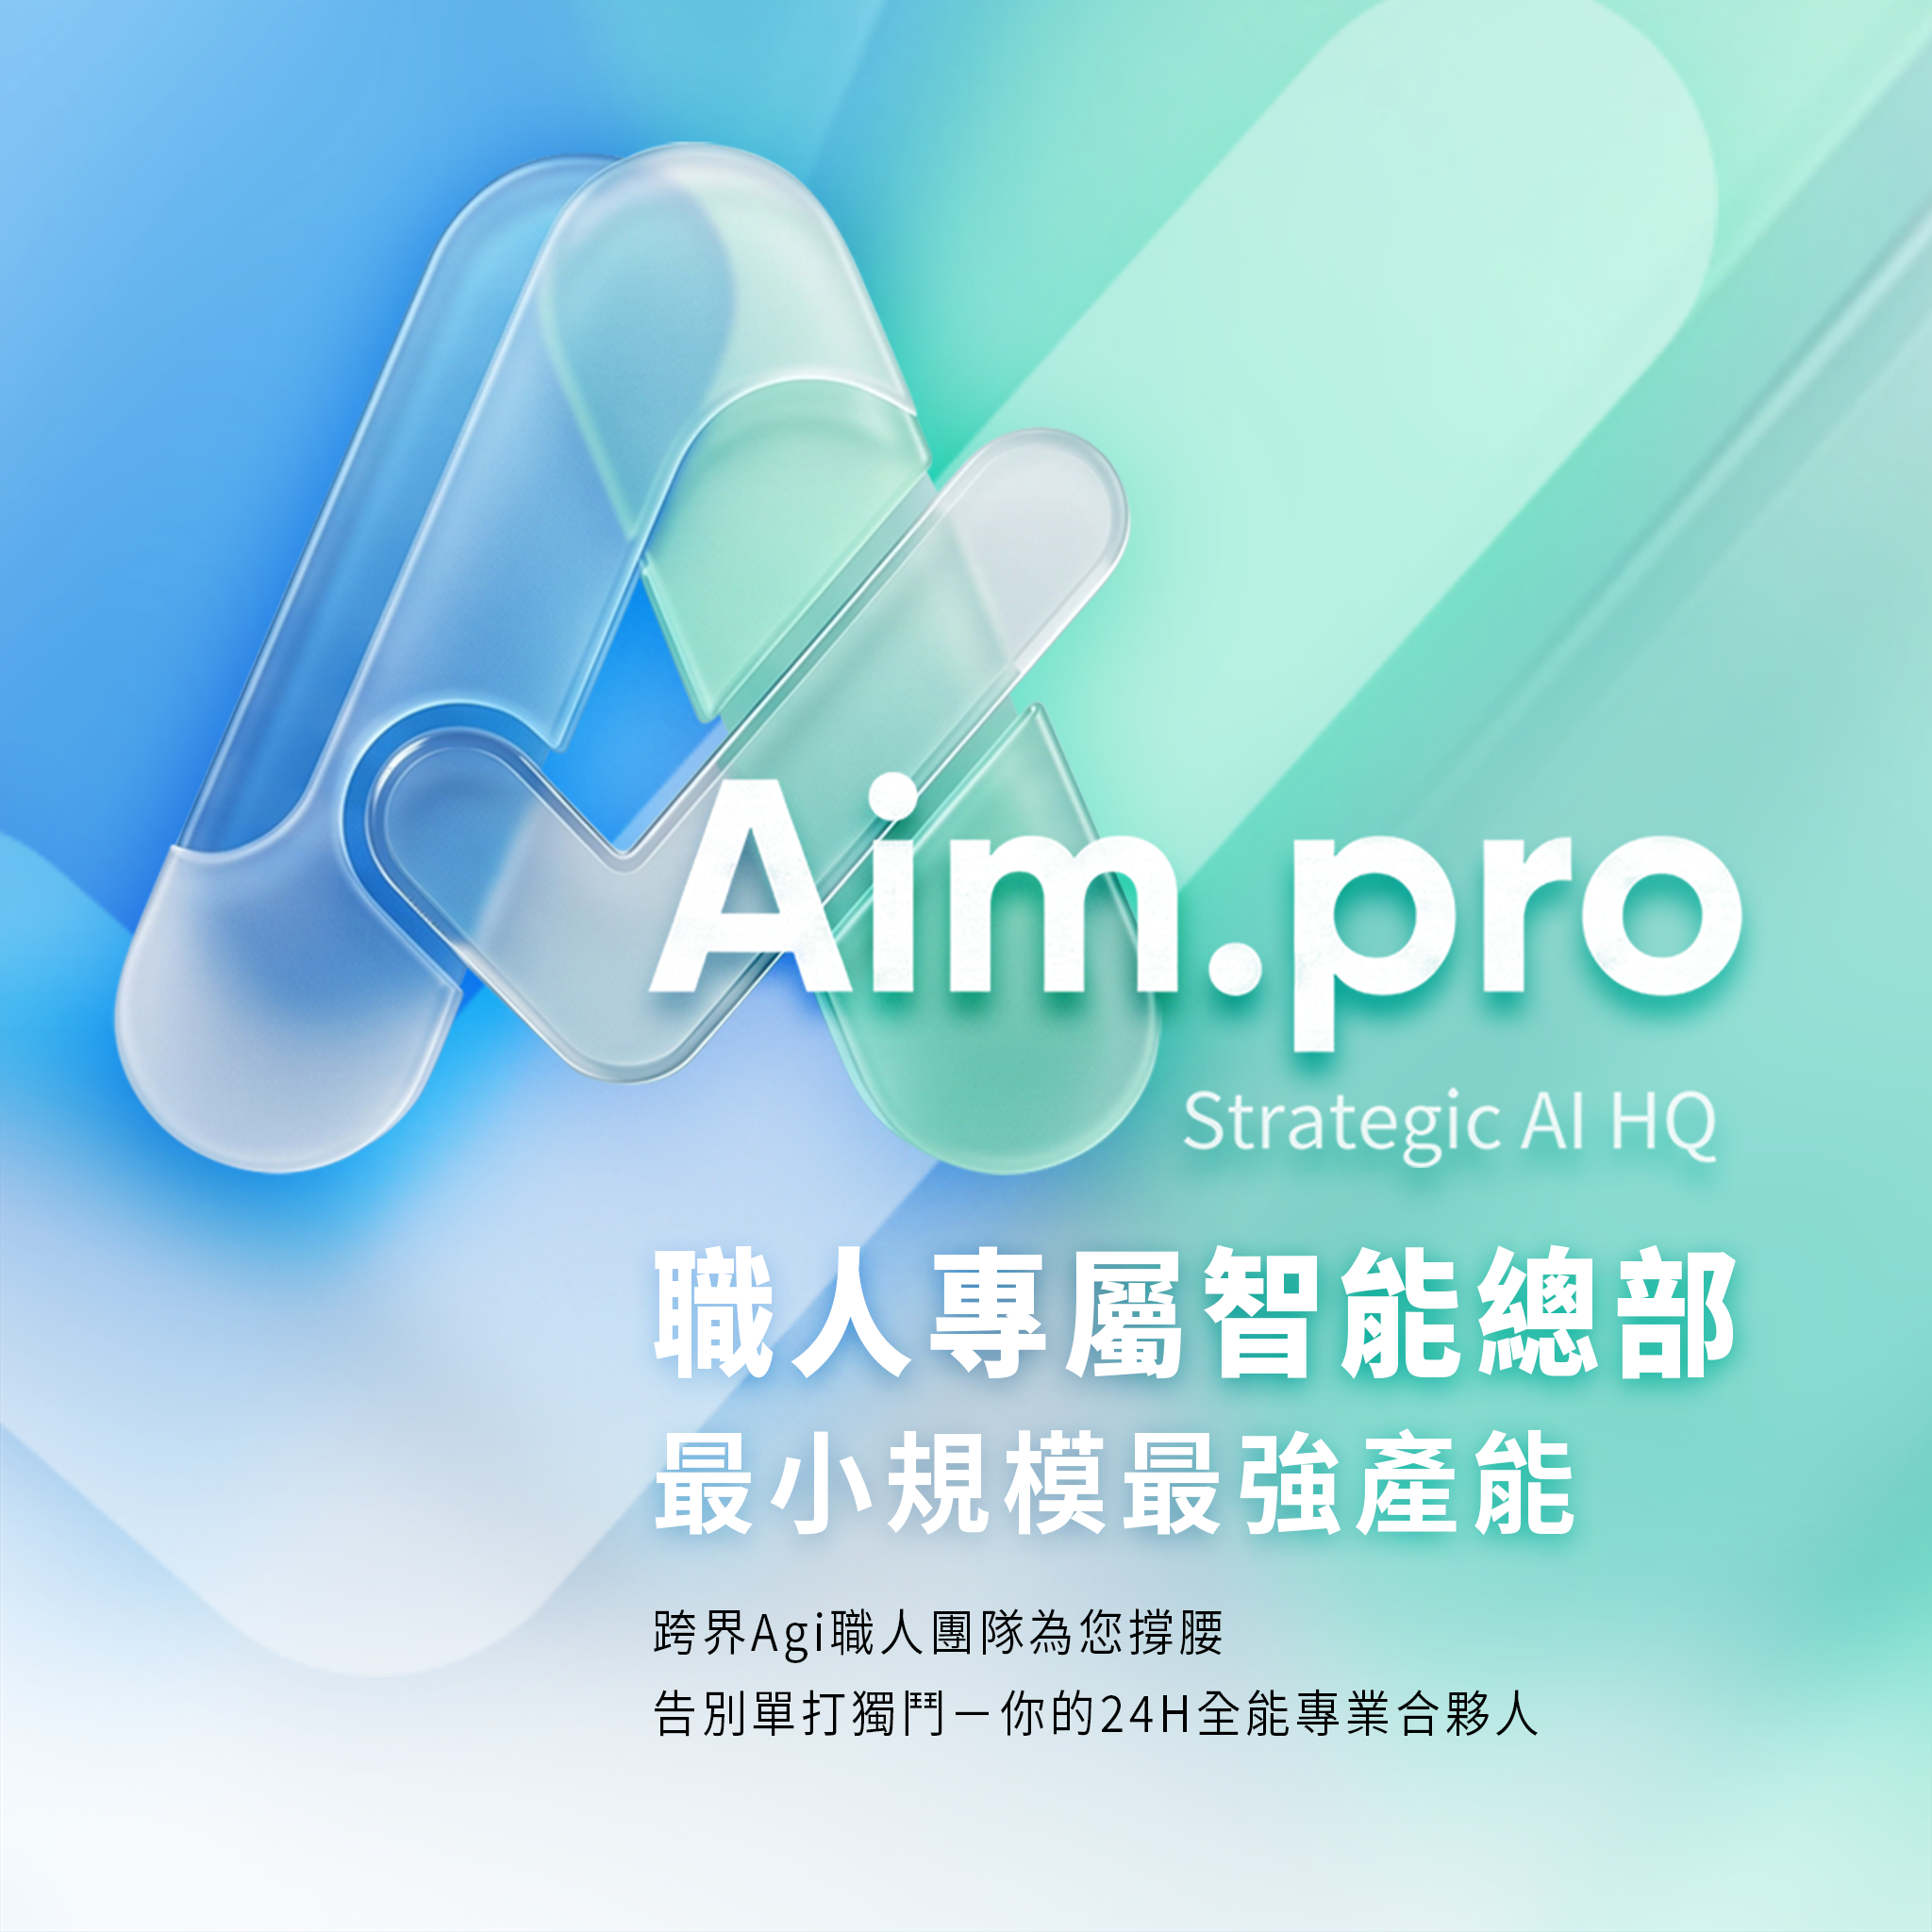
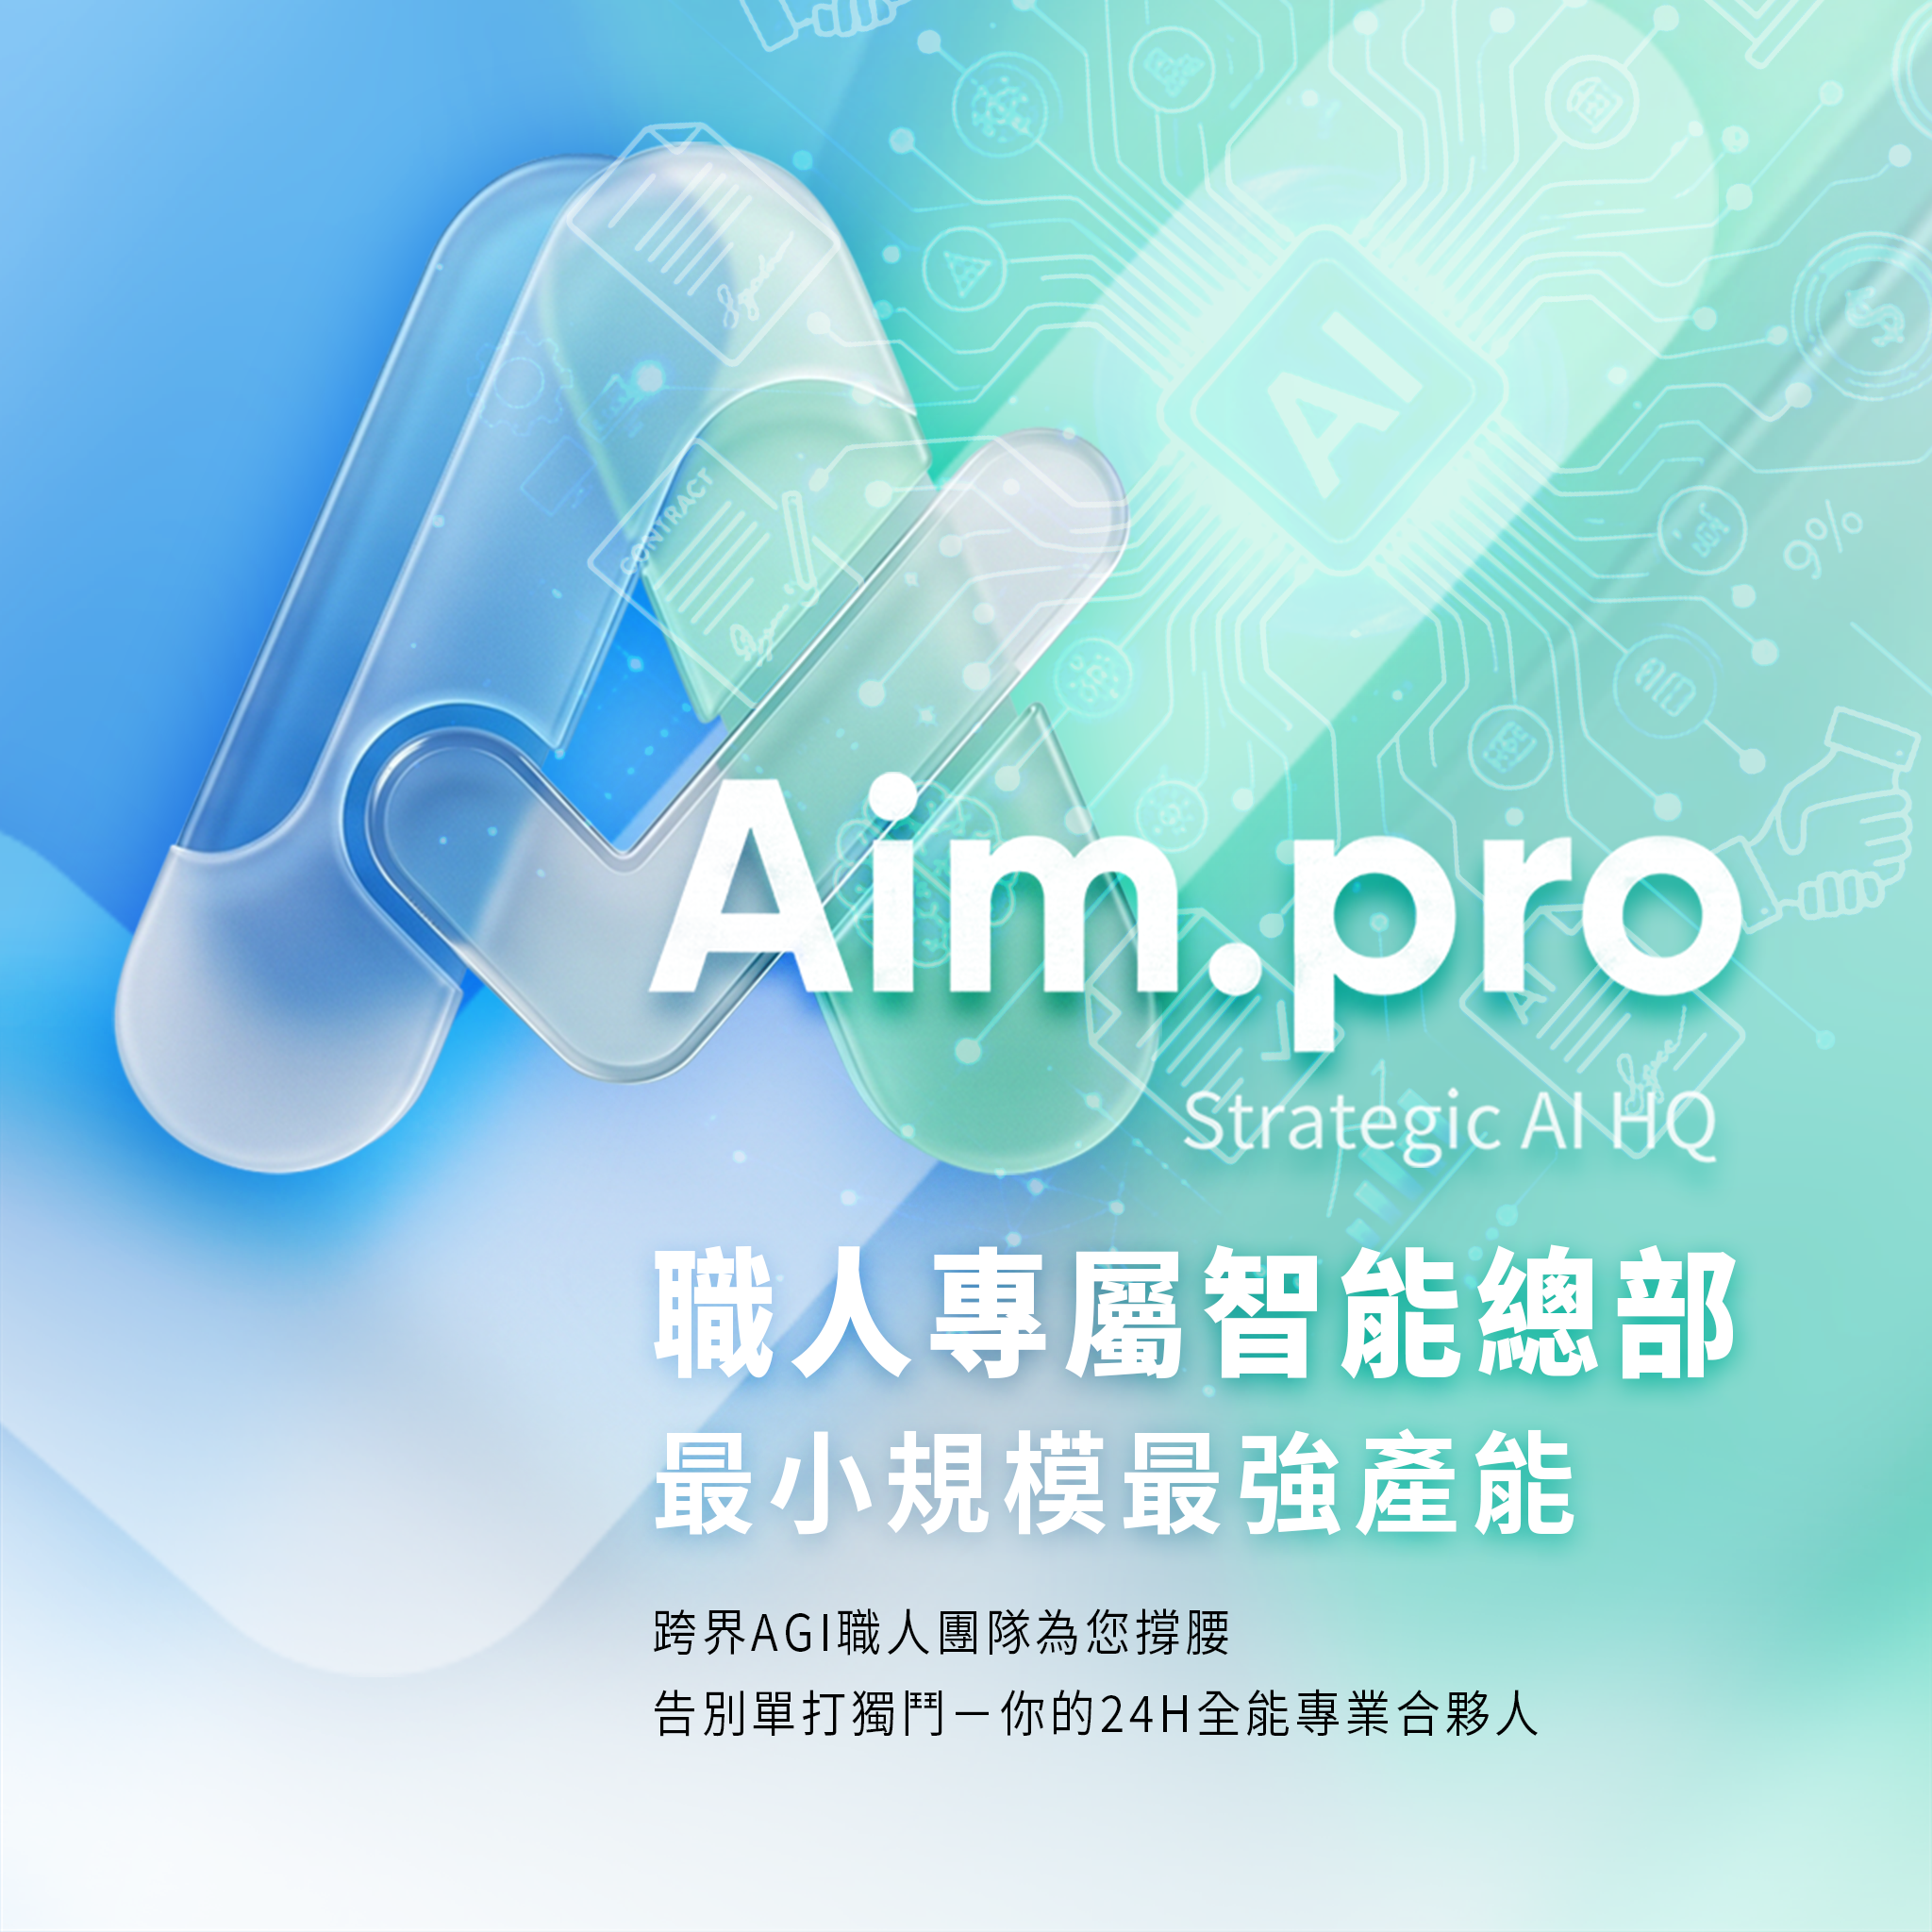
feat(design): add 5 Guizang editorial visual styles for quotations, contracts, and presentations

diff --git a/src/components/QuotationBuilder.tsx b/src/components/QuotationBuilder.tsx
@@ -29,7 +29,7 @@ export default function QuotationBuilder({ projectData, reportContent }: Quotati
     ]);
     const [taxMode, setTaxMode] = useState<TaxMode>((activeProject?.quotationSettings?.taxMode as TaxMode) || 'exclusive'); // exclusive = +5%
     const [riskLevel, setRiskLevel] = useState<RiskLevel>((activeProject?.quotationSettings?.riskLevel as RiskLevel) || 'medium');
-    const [quoteStyle, setQuoteStyle] = useState<'standard' | 'modern' | 'minimal' | 'classic' | 'creative' | 'od_swiss' | 'od_brutal' | 'od_editorial' | 'od_mono' | 'od_receipt' | 'od_architect' | 'od_academic' | 'od_gallery' | 'od_terminal' | 'od_neo_classic'>('standard');
+    const [quoteStyle, setQuoteStyle] = useState<'standard' | 'modern' | 'minimal' | 'classic' | 'creative' | 'od_swiss' | 'od_brutal' | 'od_editorial' | 'od_mono' | 'od_receipt' | 'od_architect' | 'od_academic' | 'od_gallery' | 'od_terminal' | 'od_neo_classic' | 'gz_ink' | 'gz_indigo' | 'gz_forest' | 'gz_dune' | 'gz_ikb'>('standard');
 
     // Import Confirmation State
     const [isConfirmingImport, setIsConfirmingImport] = useState(false);
@@ -404,18 +404,25 @@ export default function QuotationBuilder({ projectData, reportContent }: Quotati
                                 <option value="minimal">極簡低調 (Minimal)</option>
                                 <option value="classic">經典嚴謹 (Classic)</option>
                                 <option value="creative">創意活潑 (Creative)</option>
-                                <optgroup label="Open Design 黑白職人風格">
-                                    <option value="od_swiss">國際瑞士風 (Swiss)</option>
-                                    <option value="od_brutal">新粗野主義 (Brutal)</option>
-                                    <option value="od_editorial">報刊社論 (Editorial)</option>
-                                    <option value="od_mono">極致純黑 (Monochrome)</option>
-                                    <option value="od_receipt">電子收據 (Receipt)</option>
-                                    <option value="od_architect">建築藍圖 (Architect)</option>
-                                    <option value="od_academic">學術論文 (Academic)</option>
-                                    <option value="od_gallery">現代藝廊 (Gallery)</option>
-                                    <option value="od_terminal">代碼終端 (Terminal)</option>
-                                    <option value="od_neo_classic">新古典 (Neo Classic)</option>
-                                </optgroup>
+                                                                        <optgroup label="Open Design 黑白職人風格">
+                                            <option value="od_swiss">極致純黑 (Monochrome)</option>
+                                            <option value="od_brutal">粗獷主義 (Brutalism)</option>
+                                            <option value="od_editorial">純文字排版 (Editorial)</option>
+                                            <option value="od_mono">白底黑邊 (Mono Outline)</option>
+                                            <option value="od_receipt">收銀條風格 (Receipt)</option>
+                                            <option value="od_architect">藍圖網格 (Architect)</option>
+                                            <option value="od_academic">學術論文 (Academic)</option>
+                                            <option value="od_gallery">藝廊展卡 (Gallery)</option>
+                                            <option value="od_terminal">終端機 (Terminal)</option>
+                                            <option value="od_neo_classic">新古典黑白 (Neo Classic)</option>
+                                        </optgroup>
+                                        <optgroup label="國際版式與雜誌風 (Editorial/Swiss)">
+                                            <option value="gz_ink">墨水經典 (Ink Classic)</option>
+                                            <option value="gz_indigo">靛藍瓷 (Indigo Porcelain)</option>
+                                            <option value="gz_forest">森林墨 (Forest Ink)</option>
+                                            <option value="gz_dune">沙丘 (Dune)</option>
+                                            <option value="gz_ikb">瑞士克萊因藍 (Swiss IKB)</option>
+                                        </optgroup>
                             </select>
                         </div>
                     </div>
@@ -865,7 +872,12 @@ export default function QuotationBuilder({ projectData, reportContent }: Quotati
                             quoteStyle === 'od_academic' && "p-4 border-none mt-4",
                             quoteStyle === 'od_gallery' && "p-4 border-none mt-4",
                             quoteStyle === 'od_terminal' && "p-6 border border-slate-800  mt-4",
-                            quoteStyle === 'od_neo_classic' && "p-8 border-double border-4 border-black mt-4"
+                            quoteStyle === 'od_neo_classic' && "p-8 border-double border-4 border-black mt-4",
+                            quoteStyle === 'gz_ink' && "p-8 border border-[#0a0a0b] mt-4",
+                            quoteStyle === 'gz_indigo' && "p-8 bg-[#132a4f] mt-4 border border-[#4da6ff]/30",
+                            quoteStyle === 'gz_forest' && "p-8 border border-[#66b277]/50 mt-4",
+                            quoteStyle === 'gz_dune' && "p-8 bg-[#2a241c] mt-4",
+                            quoteStyle === 'gz_ikb' && "p-8 border-2 border-[#002FA7] mt-4"
                         )}>
                             {/* ... Totals ... */}
                             <div className={cn("flex justify-between font-medium text-sm", (quoteStyle === 'od_mono' || quoteStyle === 'od_terminal') ? "text-inherit" : "text-slate-500")}>
@@ -916,12 +928,27 @@ export default function QuotationBuilder({ projectData, reportContent }: Quotati
                         quoteStyle === 'od_academic' && "bg-transparent border-none rounded-none p-0",
                         quoteStyle === 'od_gallery' && "bg-transparent border-none rounded-none p-0",
                         quoteStyle === 'od_terminal' && "bg-slate-50 border border-slate-800 rounded-none print:bg-white ",
-                        quoteStyle === 'od_neo_classic' && "bg-white border-double border-[4px] border-black rounded-none"
+                        quoteStyle === 'od_neo_classic' && "bg-white border-double border-[4px] border-black rounded-none",
+                                    quoteStyle === 'gz_ink' && "bg-transparent border border-[#0a0a0b] rounded-none",
+                                    quoteStyle === 'gz_indigo' && "bg-[#132a4f] border border-[#4da6ff]/30 rounded-none",
+                                    quoteStyle === 'gz_forest' && "bg-[#233b29] border border-[#66b277]/30 rounded-none",
+                                    quoteStyle === 'gz_dune' && "bg-[#2a241c] rounded-none",
+                                    quoteStyle === 'gz_ikb' && "bg-white border-2 border-[#002FA7] rounded-none",
+                        quoteStyle === 'gz_ink' && "bg-[#e6e4df] border border-[#0a0a0b] rounded-none",
+                        quoteStyle === 'gz_indigo' && "bg-[#132a4f] border-t-2 border-[#4da6ff] rounded-none",
+                        quoteStyle === 'gz_forest' && "bg-[#233b29] border border-[#66b277]/30 rounded-none",
+                        quoteStyle === 'gz_dune' && "bg-[#2a241c] rounded-none",
+                        quoteStyle === 'gz_ikb' && "bg-[#002FA7] text-white rounded-none"
                     )}>
                         <h4 className={cn(
                             "font-bold text-sm mb-6 flex items-center border-b pb-3 uppercase tracking-wider",
                             (quoteStyle === 'od_mono' || quoteStyle === 'od_terminal') ? "text-inherit border-inherit " : "text-slate-600 border-black/20",
                             ['od_swiss', 'od_brutal', 'od_editorial', 'od_architect', 'od_neo_classic'].includes(quoteStyle) && "border-black text-black",
+                            quoteStyle === 'gz_ink' && "border-[#0a0a0b] text-[#0a0a0b]",
+                            quoteStyle === 'gz_indigo' && "border-[#4da6ff]/50 text-[#f1f3f5]",
+                            quoteStyle === 'gz_forest' && "border-[#66b277]/50 text-[#f5f1e8]",
+                            quoteStyle === 'gz_dune' && "border-[#d4a04a]/50 text-[#f0e6d2]",
+                            quoteStyle === 'gz_ikb' && "border-[#002FA7] text-[#002FA7] font-black uppercase tracking-widest",
                             quoteStyle === 'od_receipt' && "border-dashed border-black text-black"
                         )}>
                             <Calculator className="w-4 h-4 mr-2" />

diff --git a/src/lib/designEngine.ts b/src/lib/designEngine.ts
@@ -4,7 +4,7 @@
 
 import { ProjectData } from '@/types/project';
 
-export type DesignPhilosophy = 'apple' | 'estate' | 'cruise' | 'rural' | 'cyber' | 'gallery' | 'magazine';
+export type DesignPhilosophy = 'apple' | 'estate' | 'cruise' | 'rural' | 'cyber' | 'gallery' | 'magazine' | 'ink' | 'indigo' | 'forest' | 'dune' | 'ikb';
 export type DesignSkill = 'prototype' | 'presentation' | 'dashboard' | 'brand_spec' | 'flowchart' | 'html_ppt' | 'swipe_deck';
 
 export interface DesignBrief {
@@ -23,13 +23,18 @@ export function getFullCraftCSS(philosophy: DesignPhilosophy): string {
         rural: `--bg: #fdf8f0; --text: #3d2b1f; --accent: #7c4a1e; --secondary: #f4ece2; --font: 'Noto Serif TC'; --accent-gradient: linear-gradient(to right, #7c4a1e, #a67c52);`,
         cyber: `--bg: #020617; --text: #e2e8f0; --accent: #10b981; --secondary: #0f172a; --font: 'Space Mono'; --accent-gradient: linear-gradient(90deg, #10b981, #3b82f6);`,
         gallery: `--bg: #ffffff; --text: #000; --accent: #e63946; --secondary: #f5f5f0; --font: 'Outfit'; --accent-gradient: linear-gradient(45deg, #e63946, #000);`,
-        magazine: `--bg: #fafafa; --text: #111111; --accent: #ff4500; --secondary: #f0f0f0; --font: 'Helvetica Neue', Helvetica; --accent-gradient: linear-gradient(135deg, #ff4500 0%, #ff8c00 100%);`
+                magazine: `--bg: #fafafa; --text: #111111; --accent: #ff4500; --secondary: #f0f0f0; --font: 'Helvetica Neue', Helvetica; --accent-gradient: linear-gradient(135deg, #ff4500 0%, #ff8c00 100%);`,
+        ink: `--bg: #f1efea; --text: #0a0a0b; --accent: #8c8c8c; --secondary: #e6e4df; --font: 'Noto Serif TC', serif; --accent-gradient: linear-gradient(135deg, #0a0a0b 0%, #333 100%);`,
+        indigo: `--bg: #0a1f3d; --text: #f1f3f5; --accent: #4da6ff; --secondary: #132a4f; --font: 'Inter', sans-serif; --accent-gradient: linear-gradient(135deg, #4da6ff 0%, #0a1f3d 100%);`,
+        forest: `--bg: #1a2e1f; --text: #f5f1e8; --accent: #66b277; --secondary: #233b29; --font: 'Playfair Display', serif; --accent-gradient: linear-gradient(135deg, #66b277 0%, #1a2e1f 100%);`,
+        dune: `--bg: #1f1a14; --text: #f0e6d2; --accent: #d4a04a; --secondary: #2a241c; --font: 'Outfit', sans-serif; --accent-gradient: linear-gradient(135deg, #d4a04a 0%, #1f1a14 100%);`,
+        ikb: `--bg: #ffffff; --text: #000000; --accent: #002FA7; --secondary: #f5f5f5; --font: 'Helvetica Neue', Helvetica, sans-serif; --accent-gradient: linear-gradient(135deg, #002FA7 0%, #001f70 100%);`
     };
 
     return `
     :root {
         ${palettes[philosophy]}
-        color-scheme: ${philosophy === 'gallery' || philosophy === 'rural' ? 'light' : 'dark'} !important;
+        color-scheme: ${['gallery', 'rural', 'magazine', 'ink', 'ikb'].includes(philosophy) ? 'light' : 'dark'} !important;
         --glass: blur(40px) saturate(200%);
         --shadow-xl: 0 40px 100px -20px rgba(0,0,0,0.6);
         --border-glass: rgba(255,255,255,0.08);
@@ -75,7 +80,8 @@ export function getFullCraftCSS(philosophy: DesignPhilosophy): string {
 }
 
 export const PHILOSOPHY_LABELS: Record<DesignPhilosophy, string> = {
-  apple: '極致蘋果 (Apple)', estate: '私人莊園 (Estate)', cruise: '皇家郵輪 (Cruise)', rural: '文青鄉產 (Rural)', cyber: '賽博科技 (Cyber)', gallery: '現代藝廊 (Creative)', magazine: '時尚雜誌 (Magazine)'
+    apple: '極致蘋果 (Apple)', estate: '私人莊園 (Estate)', cruise: '皇家郵輪 (Cruise)', rural: '文青鄉產 (Rural)', cyber: '賽博科技 (Cyber)', gallery: '現代藝廊 (Creative)', magazine: '時尚雜誌 (Magazine)',
+  ink: '墨水經典 (Ink Classic)', indigo: '靛藍瓷 (Indigo)', forest: '森林墨 (Forest)', dune: '沙丘 (Dune)', ikb: '瑞士克萊因藍 (IKB)'
 };
 
 export const SKILL_LABELS: Record<DesignSkill, string> = {
@@ -89,7 +95,12 @@ export const PHILOSOPHY_DESCRIPTIONS: Record<DesignPhilosophy, string> = {
   rural: '純樸溫度：大地暖色、紙質感、手感編排',
   cyber: '未來脈動：發光網格、霓虹對比、科技感介面',
   gallery: '前衛衝擊：不對稱佈局、流體元素、藝術對比',
-  magazine: '時尚雜誌：大膽排版、全屏圖片、搶眼字體',
+    magazine: '時尚雜誌：大膽排版、全屏圖片、搶眼字體',
+  ink: '墨水經典：暖色紙張、深墨字體、適合商業預設',
+  indigo: '靛藍瓷：深邃科技藍、高對比白字、適合科技/AI',
+  forest: '森林墨：深邃自然綠、暖色文字、適合永續/非虛構',
+  dune: '沙丘：大地暖色調、藝術感排版、適合設計/時尚',
+  ikb: '瑞士網格：純淨白底黑字、高純度克萊因藍點綴'
 };
 
 export const SKILL_DESCRIPTIONS: Record<DesignSkill, string> = {

diff --git a/src/components/ContractGenerator.tsx b/src/components/ContractGenerator.tsx
@@ -351,7 +351,7 @@ export default function ContractGenerator({
 }: ContractGeneratorProps) {
     const contractRef = useRef<HTMLDivElement>(null);
     const currentDate = new Date().toLocaleDateString('zh-TW');
-    const [contractStyle, setContractStyle] = useState<'formal' | 'concise' | 'modern' | 'standard' | 'detailed' | 'od_swiss' | 'od_brutal' | 'od_editorial' | 'od_mono' | 'od_receipt' | 'od_architect' | 'od_academic' | 'od_gallery' | 'od_terminal' | 'od_neo_classic'>('formal');
+    const [contractStyle, setContractStyle] = useState<'formal' | 'concise' | 'modern' | 'standard' | 'detailed' | 'od_swiss' | 'od_brutal' | 'od_editorial' | 'od_mono' | 'od_receipt' | 'od_architect' | 'od_academic' | 'od_gallery' | 'od_terminal' | 'od_neo_classic' | 'gz_ink' | 'gz_indigo' | 'gz_forest' | 'gz_dune' | 'gz_ikb'>('formal');
 
     // 解析 projectTypeId：優先使用 projectTypeId，否則從 industryId 推斷
     const resolvedProjectTypeId = projectTypeId ||